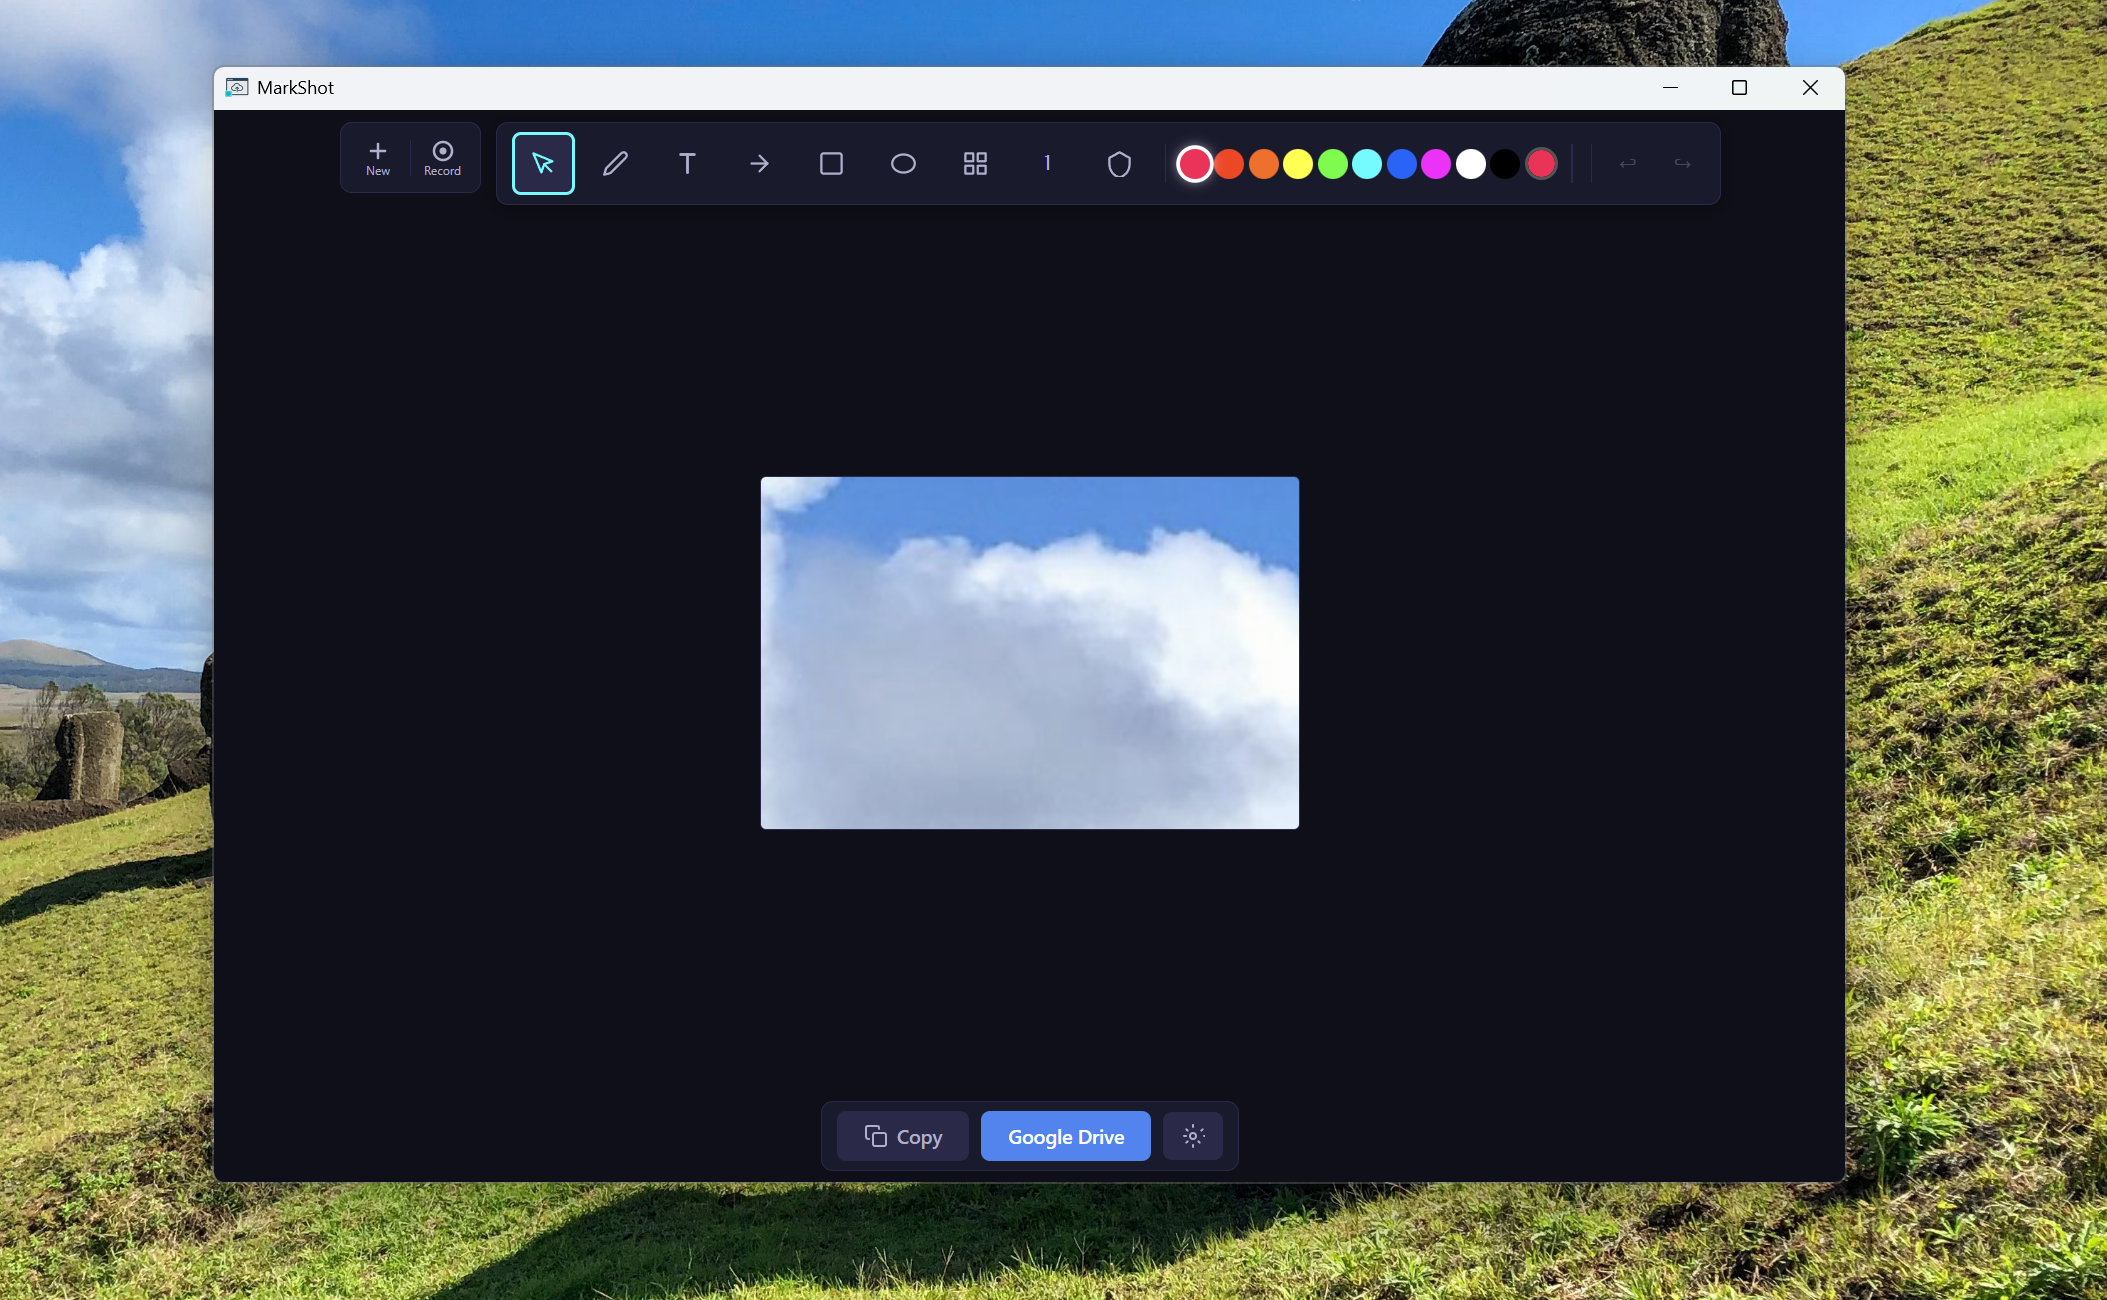
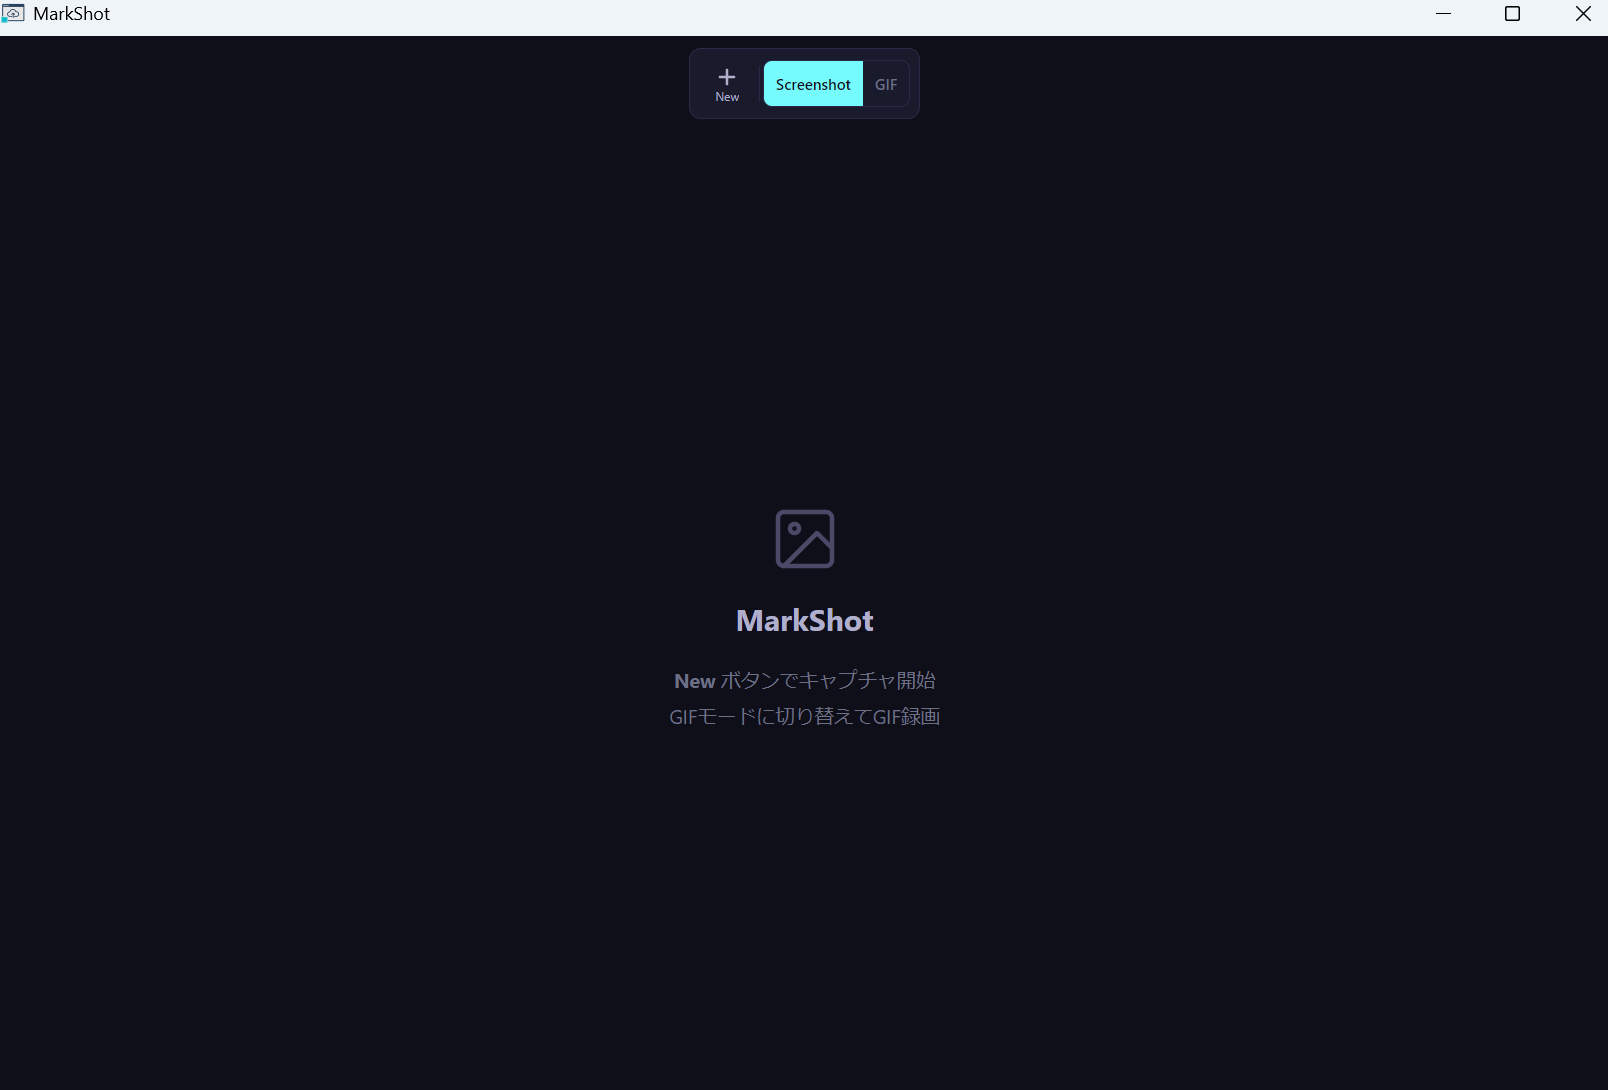
release: v1.4.0 — Screenshot即キャプチャ、テキスト二重生成修正、GIF60秒対応
- Screenshot/GIFボタンクリックでキャプチャを即開始
- テキスト注釈作成時に即座にtextarea表示し二重生成を防止
- finishEditingの二重呼び出しをフラグで防止
- GIF録画上限を30秒→60秒に拡大
- スクリーンショット画像・キャプション・LPを更新

diff --git a/src/components/AnnotationEditor.tsx b/src/components/AnnotationEditor.tsx
@@ -101,6 +101,12 @@ const AnnotationEditor: React.FC<AnnotationEditorProps> = ({
     stepCounter,
   } = useAnnotation()
 
+  // Refs to always access latest annotation mutation functions (avoids stale closures in textarea handlers)
+  const updateAnnotationRef = useRef(updateAnnotation)
+  updateAnnotationRef.current = updateAnnotation
+  const removeAnnotationRef = useRef(removeAnnotation)
+  removeAnnotationRef.current = removeAnnotation
+
   const showStatus = (text: string, error = false) => {
     setStatusMsg({ text, error })
     setTimeout(() => setStatusMsg(null), 4000)
@@ -223,7 +229,7 @@ const AnnotationEditor: React.FC<AnnotationEditorProps> = ({
   }, [])
 
   // Unified new capture: auto-saves current work, then starts capture based on mode
-  const handleNewCapture = async () => {
+  const handleNewCapture = async (mode?: 'screenshot' | 'gif') => {
     try {
       if (image) {
         const dataUrl = exportImage()
@@ -233,7 +239,8 @@ const AnnotationEditor: React.FC<AnnotationEditorProps> = ({
       }
       setGifPreviewUrl(null)
 
-      if (captureMode === 'gif') {
+      const m = mode ?? captureMode
+      if (m === 'gif') {
         window.electronAPI?.startGifCapture()
       } else {
         window.electronAPI?.startCapture()
@@ -303,7 +310,7 @@ const AnnotationEditor: React.FC<AnnotationEditorProps> = ({
       const gif = GIFEncoder()
 
       const FPS = 10
-      const MAX_SECONDS = 30
+      const MAX_SECONDS = 60
       const frameDelay = 1000 / FPS
       let frameCount = 0
       let globalPalette: number[][] | null = null
@@ -555,8 +562,10 @@ const AnnotationEditor: React.FC<AnnotationEditorProps> = ({
         fontSize,
         color,
       })
-      setEditingTextId(id)
-      // Keep text tool active for consecutive placements (don't reset to select)
+      // Immediately open textarea for editing (use setTimeout to let React render first)
+      setTimeout(() => {
+        openTextEditor(id, pos.x, pos.y, 'テキスト', fontSize, color, true)
+      }, 0)
       return
     }
 
@@ -752,9 +761,9 @@ const AnnotationEditor: React.FC<AnnotationEditorProps> = ({
     }
   }
 
-  // Text editing via textarea overlay
-  const handleTextDblClick = (ann: Annotation & { type: 'text' }) => {
-    setEditingTextId(ann.id)
+  // Text editing via textarea overlay (shared by new creation and double-click edit)
+  const openTextEditor = (annId: string, x: number, y: number, text: string, annFontSize: number, annColor: string, isNew = false) => {
+    setEditingTextId(annId)
     const stage = stageRef.current
     if (!stage) return
 
@@ -762,12 +771,12 @@ const AnnotationEditor: React.FC<AnnotationEditorProps> = ({
     const stageRect = stageContainer.getBoundingClientRect()
 
     const textarea = document.createElement('textarea')
-    textarea.value = ann.text
+    textarea.value = text
     textarea.style.position = 'fixed'
-    textarea.style.left = `${stageRect.left + (ann.x * stageScale + stagePos.x)}px`
-    textarea.style.top = `${stageRect.top + (ann.y * stageScale + stagePos.y)}px`
-    textarea.style.fontSize = `${ann.fontSize * stageScale}px`
-    textarea.style.color = ann.color
+    textarea.style.left = `${stageRect.left + (x * stageScale + stagePos.x)}px`
+    textarea.style.top = `${stageRect.top + (y * stageScale + stagePos.y)}px`
+    textarea.style.fontSize = `${annFontSize * stageScale}px`
+    textarea.style.color = annColor
     textarea.style.border = '2px solid #00FFFF'
     textarea.style.borderRadius = '4px'
     textarea.style.padding = '4px'
@@ -775,7 +784,7 @@ const AnnotationEditor: React.FC<AnnotationEditorProps> = ({
     textarea.style.outline = 'none'
     textarea.style.resize = 'both'
     textarea.style.minWidth = '100px'
-    textarea.style.minHeight = `${ann.fontSize + 8}px`
+    textarea.style.minHeight = `${annFontSize + 8}px`
     textarea.style.fontFamily = 'Segoe UI, Meiryo, sans-serif'
     textarea.style.zIndex = '10000'
     textarea.style.overflow = 'hidden'
@@ -784,10 +793,16 @@ const AnnotationEditor: React.FC<AnnotationEditorProps> = ({
     textarea.focus()
     textarea.select()
 
+    let finished = false
     const finishEditing = () => {
+      if (finished) return
+      finished = true
+      textarea.removeEventListener('blur', finishEditing)
       const newText = textarea.value
       if (newText.trim()) {
-        updateAnnotation(ann.id, { text: newText })
+        updateAnnotationRef.current(annId, { text: newText })
+      } else {
+        removeAnnotationRef.current(annId)
       }
       if (document.body.contains(textarea)) {
         document.body.removeChild(textarea)
@@ -802,12 +817,21 @@ const AnnotationEditor: React.FC<AnnotationEditorProps> = ({
         finishEditing()
       }
       if (e.key === 'Escape') {
+        finished = true
+        textarea.removeEventListener('blur', finishEditing)
+        if (isNew) {
+          removeAnnotationRef.current(annId)
+        }
         if (document.body.contains(textarea)) {
           document.body.removeChild(textarea)
         }
         setEditingTextId(null)
       }
     })
+  }
+
+  const handleTextDblClick = (ann: Annotation & { type: 'text' }) => {
+    openTextEditor(ann.id, ann.x, ann.y, ann.text, ann.fontSize, ann.color)
   }
 
   // Mosaic rendering using real pixelation of source image
@@ -1223,7 +1247,7 @@ const AnnotationEditor: React.FC<AnnotationEditorProps> = ({
           {!isGifRecording ? (
             <button
               className="action-btn"
-              onClick={handleNewCapture}
+              onClick={() => handleNewCapture()}
               disabled={anyRecording}
               style={{
                 width: 38,
@@ -1276,7 +1300,7 @@ const AnnotationEditor: React.FC<AnnotationEditorProps> = ({
           }}>
             <button
               className="action-btn"
-              onClick={() => setCaptureMode('screenshot')}
+              onClick={() => { setCaptureMode('screenshot'); handleNewCapture('screenshot') }}
               disabled={anyRecording}
               style={{
                 height: 30,
@@ -1293,7 +1317,7 @@ const AnnotationEditor: React.FC<AnnotationEditorProps> = ({
             </button>
             <button
               className="action-btn"
-              onClick={() => setCaptureMode('gif')}
+              onClick={() => { setCaptureMode('gif'); handleNewCapture('gif') }}
               disabled={anyRecording}
               style={{
                 height: 30,

diff --git a/LP/index_d.html b/LP/index_d.html
@@ -797,7 +797,7 @@
     <!-- HERO -->
     <section class="hero">
         <div class="container">
-            <div class="hero-badge">v1.3.6 リリース</div>
+            <div class="hero-badge">v1.4.0 リリース</div>
             <img src="../img/logo3.png" alt="MarkShot Logo" class="hero-logo" />
             <h1>撮って、書いて、<span class="accent">共有する。</span></h1>
             <p>
@@ -805,7 +805,7 @@
                 MarkShotがすべてをワンストップで実現します。
             </p>
             <div class="hero-actions">
-                <a href="https://github.com/tsubasagit/MarkShot/releases/latest/download/MarkShot.Setup.1.3.6.exe" class="btn-primary" onclick="gtag('event','download_click',{event_category:'download',event_label:this.closest('section').className})">
+                <a href="https://github.com/tsubasagit/MarkShot/releases/latest/download/MarkShot.Setup.1.4.0.exe" class="btn-primary" onclick="gtag('event','download_click',{event_category:'download',event_label:this.closest('section').className})">
                     <svg viewBox="0 0 24 24" fill="none" stroke="currentColor" stroke-width="2" stroke-linecap="round"
                         stroke-linejoin="round">
                         <path d="M21 15v4a2 2 0 0 1-2 2H5a2 2 0 0 1-2-2v-4" />
@@ -825,7 +825,7 @@
             <p class="hero-note">Windows対応 / 無料 / オープンソース</p>
 
             <div class="hero-screenshot">
-                <img src="../img/markshot1.png" alt="MarkShot エディタ画面" />
+                <img src="../img/markshot1.png" alt="MarkShot ホーム画面" />
             </div>
         </div>
     </section>
@@ -838,6 +838,11 @@
                 <h2>お知らせ</h2>
             </div>
             <div class="news-list">
+                <div class="news-item">
+                    <span class="news-date">2026-04-10</span>
+                    <span class="news-tag feature">機能</span>
+                    <span class="news-text">v1.4.0 — Screenshot/GIFボタンから即キャプチャ開始、テキスト注釈の二重生成バグ修正、GIF録画上限を60秒に拡大。</span>
+                </div>
                 <div class="news-item">
                     <span class="news-date">2026-03-10</span>
                     <span class="news-tag feature">機能</span>
@@ -1062,7 +1067,7 @@
         <div class="container">
             <h2>今すぐ<span class="accent">MarkShot</span>を始めよう</h2>
             <p>インストールして、すぐに使い始められます。</p>
-            <a href="https://github.com/tsubasagit/MarkShot/releases/latest/download/MarkShot.Setup.1.3.6.exe" class="btn-primary" onclick="gtag('event','download_click',{event_category:'download',event_label:this.closest('section').className})">
+            <a href="https://github.com/tsubasagit/MarkShot/releases/latest/download/MarkShot.Setup.1.4.0.exe" class="btn-primary" onclick="gtag('event','download_click',{event_category:'download',event_label:this.closest('section').className})">
                 <svg viewBox="0 0 24 24" fill="none" stroke="currentColor" stroke-width="2" stroke-linecap="round"
                     stroke-linejoin="round" width="20" height="20">
                     <path d="M21 15v4a2 2 0 0 1-2 2H5a2 2 0 0 1-2-2v-4" />
@@ -1071,7 +1076,7 @@
                 </svg>
                 無料ダウンロード
             </a>
-            <p class="cta-note">Windows 10 / 11 対応 | v1.3.6</p>
+            <p class="cta-note">Windows 10 / 11 対応 | v1.4.0</p>
         </div>
     </section>
 

diff --git a/src/components/CaptureBar.tsx b/src/components/CaptureBar.tsx
@@ -5,7 +5,7 @@ export type CaptureMode = 'screenshot' | 'gif'
 interface CaptureBarProps {
   captureMode: CaptureMode
   onCaptureModeChange: (mode: CaptureMode) => void
-  onNewCapture: () => void
+  onNewCapture: (mode?: CaptureMode) => void
   disabled?: boolean
 }
 
@@ -34,7 +34,7 @@ const CaptureBar: React.FC<CaptureBarProps> = ({
       <button
         type="button"
         className="action-btn"
-        onClick={onNewCapture}
+        onClick={() => onNewCapture()}
         disabled={disabled}
         style={{
           width: 38,
@@ -66,7 +66,7 @@ const CaptureBar: React.FC<CaptureBarProps> = ({
         <button
           type="button"
           className="action-btn"
-          onClick={() => onCaptureModeChange('screenshot')}
+          onClick={() => { onCaptureModeChange('screenshot'); onNewCapture('screenshot') }}
           disabled={disabled}
           style={{
             height: 30,
@@ -84,7 +84,7 @@ const CaptureBar: React.FC<CaptureBarProps> = ({
         <button
           type="button"
           className="action-btn"
-          onClick={() => onCaptureModeChange('gif')}
+          onClick={() => { onCaptureModeChange('gif'); onNewCapture('gif') }}
           disabled={disabled}
           style={{
             height: 30,

diff --git a/src/App.tsx b/src/App.tsx
@@ -96,8 +96,9 @@ const App: React.FC = () => {
 
 function Placeholder() {
   const [captureMode, setCaptureMode] = useState<'screenshot' | 'gif'>('screenshot')
-  const handleNewCapture = () => {
-    if (captureMode === 'gif') {
+  const handleNewCapture = (mode?: 'screenshot' | 'gif') => {
+    const m = mode ?? captureMode
+    if (m === 'gif') {
       window.electronAPI?.startGifCapture?.()
     } else {
       window.electronAPI?.startCapture?.()

diff --git a/README.md b/README.md
@@ -12,7 +12,7 @@
 </p>
 
 <p align="center">
-  <img src="img/markshot1.png" alt="MarkShot エディタ画面" width="700" />
+  <img src="img/markshot1.png" alt="MarkShot ホーム画面" width="700" />
 </p>
 
 ## 機能
@@ -20,7 +20,7 @@
 ### キャプチャ
 - 画面の任意の領域を選択してキャプチャ
 - 動画録画（WebM形式）
-- GIF録画（最大30秒）
+- GIF録画（最大60秒）
 - マルチディスプレイ対応
 
 ### 注釈ツール
@@ -44,7 +44,7 @@
 - トレイダブルクリックで即キャプチャ
 
 <p align="center">
-  <img src="img/markshot2.png" alt="MarkShot 設定画面" width="700" />
+  <img src="img/markshot2.png" alt="MarkShot エディタ画面" width="700" />
 </p>
 
 ## インストール
